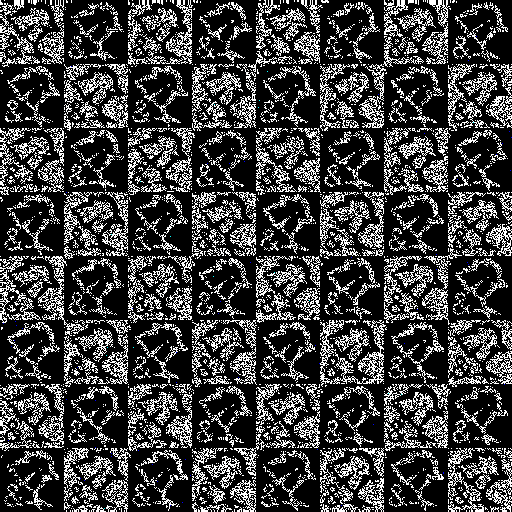
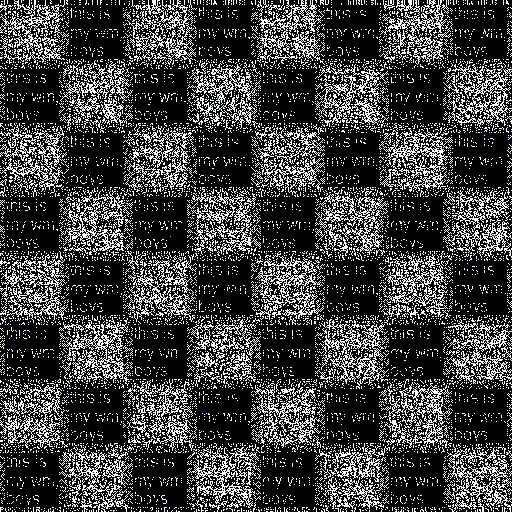
4-й cummit

Changed region(s): [[0.0, 0.0, 1.0, 1.0]]

diff --git a/stegos.py b/stegos.py
@@ -1,10 +1,3 @@
-import numpy as np
-import colorsystem.bt709 as bt
-from skimage.io import imread, imsave, imshow
-from skimage import img_as_float, img_as_ubyte
-import matplotlib.pyplot as plt
-
-
 def btb(bool_con):
     return 1 if bool_con else 0
 
@@ -19,7 +12,7 @@ def nzb_insert(contan, mark):
         for j in range(len(contan[0]) // st_j):
             old_bit = new_cont[i*st_i:(i+1)*st_i, j*st_j:(j+1)*st_j] % 2
             new_cont[i*st_i:(i+1)*st_i, j*st_j:(j+1)*st_j] -= \
-                old_bit[:, :] - (old_bit[:, :] + mark[:, :] + j + i) % 2
+                old_bit[:, :] - (mark[:, :] + j + i) % 2
 
     return new_cont
 
@@ -63,38 +56,34 @@ def nzb_extract_secured(container, key):
     return plot
 
 
-image, dwm = imread('cont.png'), imread('dwm.bmp')
-image_fl = img_as_float(image)
-imshow(image)
-plt.show()
+def insert_dwm(rgb_container, dwm):
+    from colorsystem.bt709 import to_yuv, to_rgb
+    from skimage import img_as_float, img_as_ubyte
+    import numpy as np
 
-# здесь щас будет метод встраивания знака в яркость с преобразованием
+    cont_yuv = to_yuv(img_as_float(rgb_container))
+    cont_yuv[:, :, 0] = img_as_float(nzb_insert(img_as_ubyte(cont_yuv[:, :, 0]), dwm))
+    cont_rgb = img_as_ubyte(np.clip(to_rgb(cont_yuv), 0.0, 1.0))
 
-cont_yuv = bt.to_yuv(image_fl)
-imshow(cont_yuv[:, :, 0])
-plt.show()
+    return cont_rgb
 
-cont_yuv[:, :, 0] = img_as_float(nzb_insert(img_as_ubyte(cont_yuv[:, :, 0]), dwm))
 
-image_restored = img_as_ubyte(np.clip(bt.to_rgb(cont_yuv), 0.0, 1.0))
+def extract_dwm(rgb_container):
+    from colorsystem.bt709 import to_yuv
+    from skimage import img_as_float, img_as_ubyte
 
-img_sub = np.absolute(image_restored - image)
-imshow(nzb_extract(img_sub))
-plt.show()
+    cont_yuv = to_yuv(img_as_float(rgb_container))
+    dwm_e = nzb_extract(img_as_ubyte(cont_yuv[:, :, 0]))
 
-imsave('exploit.png', img_sub)
-imsave('cont-with-dwm.png', image_restored)
-imshow(image_restored)
-plt.show()
+    return dwm_e
 
-again_img = imread('cont-with-dwm.png')
-again_yuv = np.clip(bt.to_yuv(img_as_float(again_img)), -1.0, 1.0)
-img_y = nzb_extract(img_as_ubyte(again_yuv[:, :, 0]))
+def insert_dwm_wkey(rgb_container, dwm):
+    from colorsystem.bt709 import to_yuv, to_rgb
+    from skimage import img_as_float, img_as_ubyte
+    import numpy as np
 
-imshow(img_y)
-plt.show()
+    cont_yuv = to_yuv(img_as_float(rgb_container))
+    cont_yuv[:, :, 0] = img_as_float(nzb_insert(img_as_ubyte(cont_yuv[:, :, 0]), dwm))
+    cont_rgb = img_as_ubyte(np.clip(to_rgb(cont_yuv), 0.0, 1.0))
 
-img_y_etalon = img_as_ubyte(bt.to_yuv(image_fl)[:, :, 0])
-img_y_check = nzb_extract(img_y_etalon - img_y)
-imshow(img_y_check)
-plt.show()
+    return cont_rgb

diff --git a/filters.py b/filters.py
@@ -1,6 +1,3 @@
-from skimage.io import imread, imshow, imsave
-import matplotlib.pyplot as plt
-
 def convolution(img, mask):
     import numpy as np
     img_w = img.shape[0]
@@ -28,9 +25,9 @@ def convolution(img, mask):
 
 def convolution_rgb(img, mask):
 
-    img[:, :, 0] = convolution(image[:, :, 0], mask)
-    img[:, :, 1] = convolution(image[:, :, 1], mask)
-    img[:, :, 2] = convolution(image[:, :, 2], mask)
+    img[:, :, 0] = convolution(img[:, :, 0], mask)
+    img[:, :, 1] = convolution(img[:, :, 1], mask)
+    img[:, :, 2] = convolution(img[:, :, 2], mask)
 
     return img
 
@@ -106,28 +103,29 @@ def rng_filter(method, img, mask):
     return new_img
 
 
-def noising(img):
+def noising(img, k):
     import numpy as np
-    img[:, :] = img[:, :] + np.random.normal(0, 255, 1)
+    noise_mask = np.array([[int(np.random.normal(0, k, 1)[0]) for j in range(img.shape[1])] for i in range(img.shape[0])])
+    img[:, :] = np.clip(img[:, :] + noise_mask[:, :], 0, 255)
     return img
 
 
-def noising_rgb(img):
+def noising_rgb(img, ratio):
 
-    img[:, :, 0] = noising(img[:, :, 0])
-    img[:, :, 1] = noising(img[:, :, 1])
-    img[:, :, 2] = noising(img[:, :, 2])
+    img[:, :, 0] = noising(img[:, :, 0], ratio)
+    img[:, :, 1] = noising(img[:, :, 1], ratio)
+    img[:, :, 2] = noising(img[:, :, 2], ratio)
 
     return img
 
 
-def noising_by_yuv(img):
+def noising_by_yuv(img, ratio):
     from colorsystem.bt709 import to_yuv, to_rgb
     from skimage import img_as_float, img_as_ubyte
     import numpy as np
 
-    cont_yuv = to_yuv(img)
-    cont_yuv[:, :, 0] = img_as_float(noising(img_as_ubyte(cont_yuv[:, :, 0])))
+    cont_yuv = to_yuv(img_as_float(img))
+    cont_yuv[:, :, 0] = img_as_float(noising(img_as_ubyte(cont_yuv[:, :, 0]), ratio))
     cont_rgb = img_as_ubyte(np.clip(to_rgb(cont_yuv), 0.0, 1.0))
 
     return cont_rgb
@@ -142,36 +140,3 @@ def rng_filter_rgb(method, img, mask):
     img[:, :, 2] = rng_filter(method, img[:, :, 2], mask)
 
     return img
-
-
-import numpy as np
-
-image = imread('tiger-color.png')
-sharp_mask = np.array([[-1, -1, -1],
-                       [-1, 9, -1],
-                       [-1, -1, -1]])
-
-sharp_mask = sharp_mask[:, :] * 1
-
-imshow(image)
-plt.show()
-
-# img = convolution_rgb(image.copy(), sharp_mask)
-# imsave('tiger-color-sharp.png', img)
-# imshow(img)
-# plt.show()
-
-img = rng_filter_rgb(median, image.copy(), [[1] * 3] * 3)
-imsave('tiger-color-median.png', img)
-imshow(img)
-plt.show()
-
-img = rng_filter_rgb(erosion, image.copy(), [[1] * 3] * 3)
-imsave('tiger-color-eros.png', img)
-imshow(img)
-plt.show()
-
-img = rng_filter_rgb(dilatation, image.copy(), [[1] * 3] * 3)
-imsave('tiger-color-dilat.png', img)
-imshow(img)
-plt.show()

diff --git a/my-tests.py b/my-tests.py
@@ -1,20 +1,46 @@
+from skimage.io import imread, imsave, imshow
+import matplotlib.pyplot as plt
 import numpy as np
-import random
-from skimage.io import imread, imsave
-from skimage import img_as_float, img_as_ubyte
-import graylib as grl
-import colorsystem.bt709 as bt
+
+from filters import rng_filter_rgb, median, erosion, dilatation, \
+    convolution_rgb, noising_by_yuv, noising_rgb
+from stegos import insert_dwm, extract_dwm
+
+# TEST 1 : simple inception
+#
+# image, dwm = imread('cont.png'), imread('dwm2.bmp')
+# im_with_dwm = insert_dwm(image, dwm)
+# imsave('cont-with-dwm.png', im_with_dwm)
+# again_img = imread('cont-with-dwm.png')
+# dwm_layer = extract_dwm(again_img)
 
 
-seed_1 = 'hello'
+image = imread('tiger-color.png')
 
-random.seed(seed_1)
-key_mask = [[random.getrandbits(1) for i in range(4)] for j in range(4)]
-print(key_mask)
 
-key_mask = [[random.getrandbits(1) for i in range(4)] for j in range(4)]
-print(key_mask)
+img = noising_by_yuv(image.copy(), 32)
+imsave('tiger-color-noise_yuv.png', img)
+imshow(img)
+plt.show()
 
-random.seed(seed_1)
-key_mask = [[random.getrandbits(1) for i in range(4)] for j in range(4)]
-print(key_mask)
+img = noising_rgb(image.copy(), 32)
+imsave('tiger-color-noise_rgb.png', img)
+imshow(img)
+plt.show()
+
+
+sharp_mask = np.array([[-1, -1, -1],
+                       [-1, 16, -1],
+                       [-1, -1, -1]])
+
+sharp_mask = sharp_mask[:, :] * 1/8
+
+img = convolution_rgb(image.copy(), sharp_mask)
+imsave('tiger-color-sharp.png', img)
+imshow(img)
+plt.show()
+
+img = rng_filter_rgb(median, image.copy(), [[1] * 3] * 3)
+imsave('tiger-color-median.png', img)
+imshow(img)
+plt.show()
